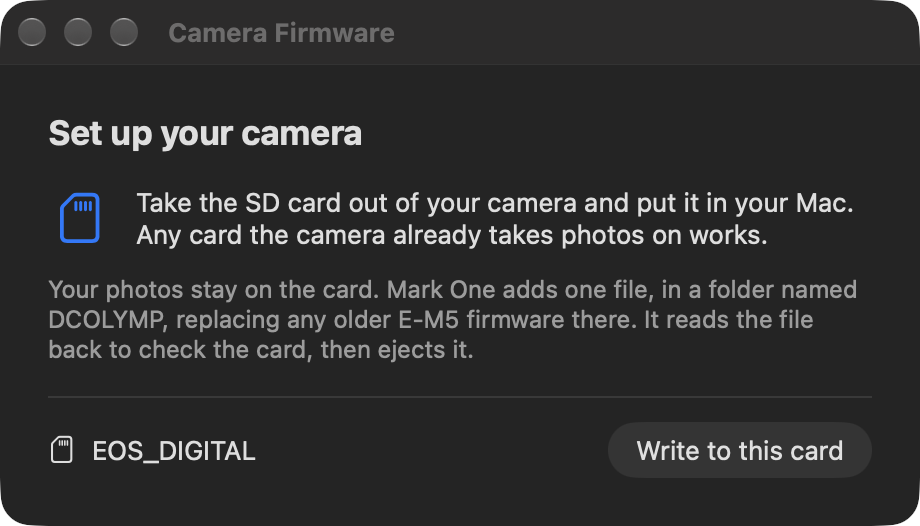
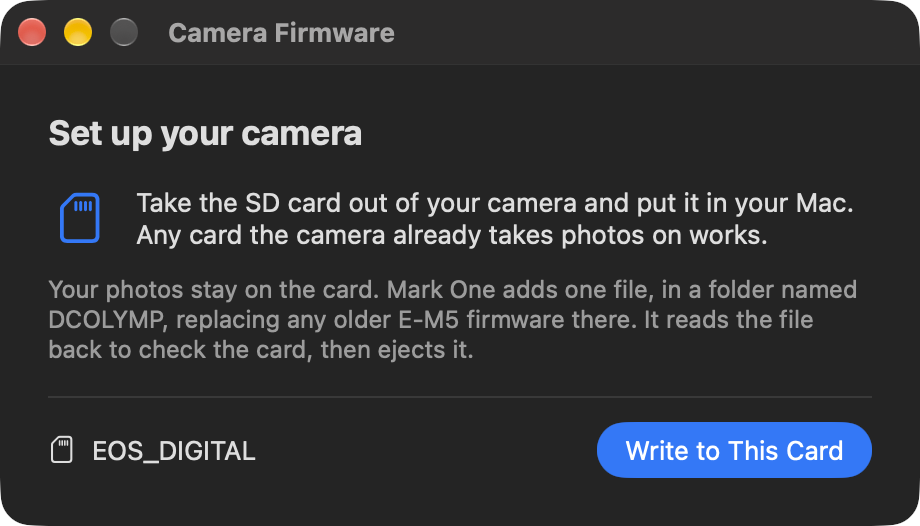
Mark One: Write to This Card, in title case like the other buttons

Changed region(s): [[0.6391, 0.7909, 0.9739, 0.9125], [0.1826, 0.0304, 0.4261, 0.0913], [0.0, 0.0304, 0.1217, 0.0913]]

diff --git a/mac/MarkOne/App/FirmwareView.swift b/mac/MarkOne/App/FirmwareView.swift
@@ -323,7 +323,7 @@ struct FirmwareView: View {
                 HStack {
                     Label(cards.first?.lastPathComponent ?? "", systemImage: "sdcard")
                     Spacer()
-                    Button("Write to this card") { if let volume = cards.first { write(volume) } }
+                    Button("Write to This Card") { if let volume = cards.first { write(volume) } }
                         .keyboardShortcut(.defaultAction)
                         .controlSize(.large)
                 }
